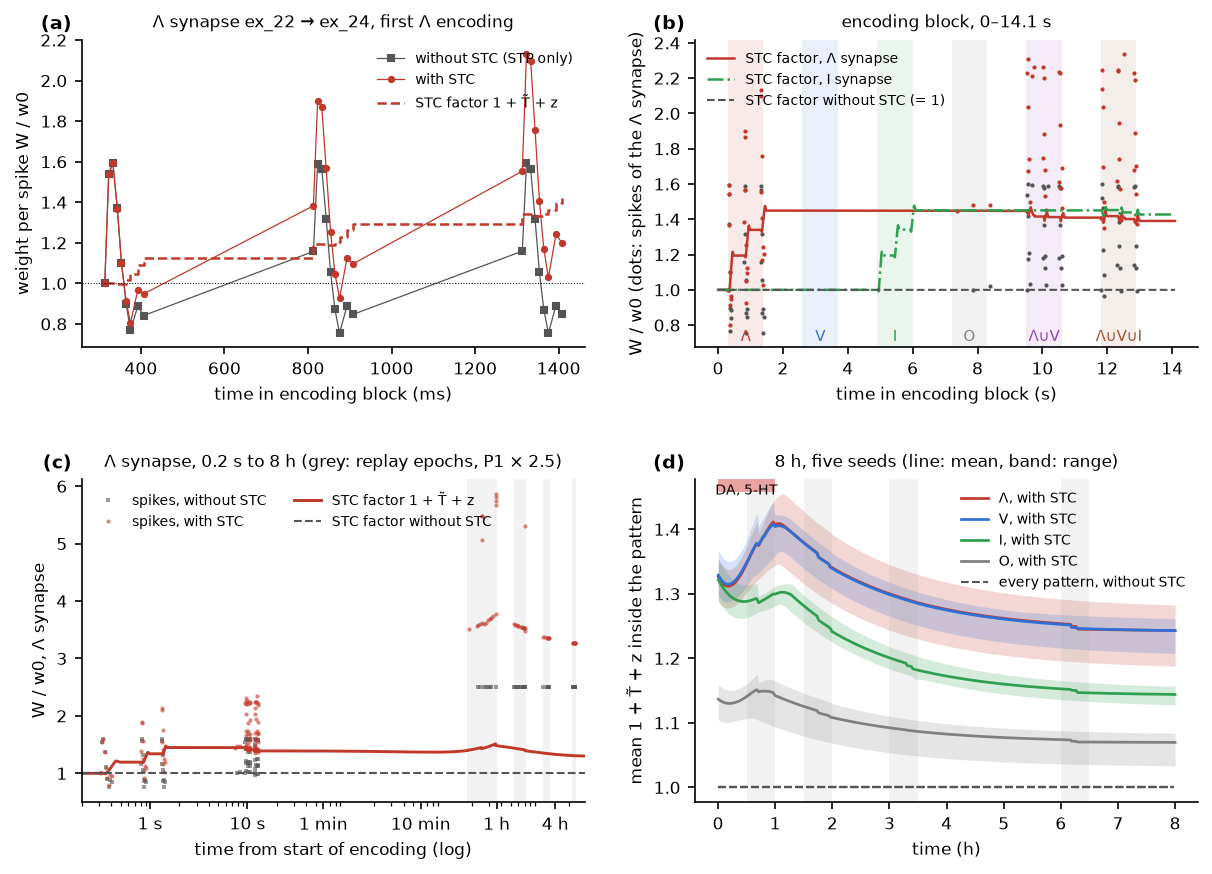
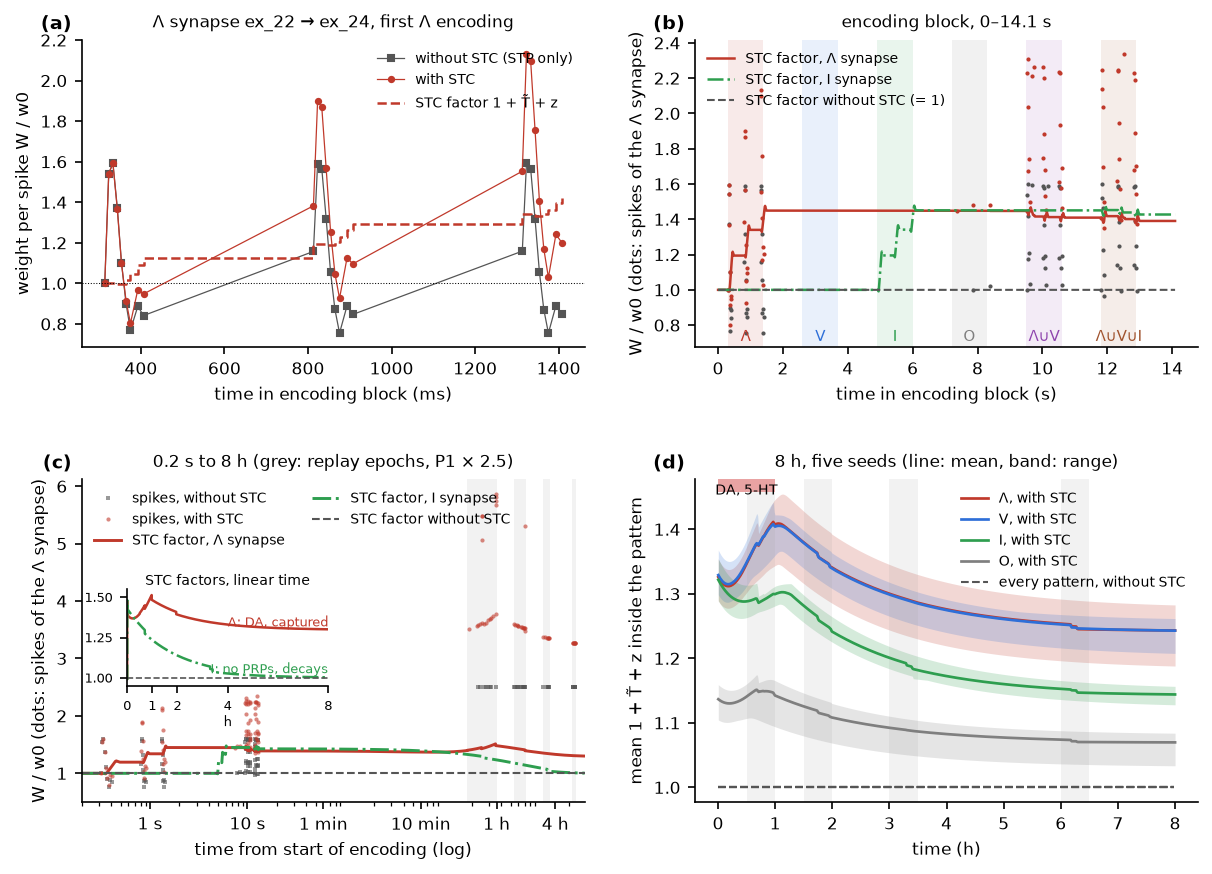
Figure 10c: add the I synapse and an inset of both STC factors in hours
The I synapse is tagged as strongly as the Λ synapse at encoding
(1.43 against 1.39) but gets no PRPs, so its tag decays to 1.00 by
about 6 h while the Λ synapse is captured and keeps 1.30. The inset
shows this on a linear time axis, where the log axis compressed it.

diff --git a/stc_compare.py b/stc_compare.py
@@ -163,7 +163,21 @@ def figure_10(stc, nostc, summary):
         ax.plot(np.concatenate(ts), np.concatenate(ws), mk, color=col, ms=2, alpha=0.6, mew=0,
                 label=f"spikes, {lab}")
     tt, wt = probe_slow(stc, "Λ")
-    ax.plot(tt[tt > 0.05], wt[tt > 0.05], color=STC_COL, lw=1.4, label="STC factor 1 + T̃ + z")
+    ax.plot(tt[tt > 0.05], wt[tt > 0.05], color=STC_COL, lw=1.4, label="STC factor, Λ synapse")
+    ti, wi = probe_slow(stc, "I")
+    ax.plot(ti[ti > 0.05], wi[ti > 0.05], color=PCOL["I"], lw=1.4, ls="-.", label="STC factor, I synapse")
+    ins = ax.inset_axes([0.09, 0.36, 0.40, 0.30])
+    ins.plot(tt / 3600, wt, color=STC_COL, lw=1.2)
+    ins.plot(ti / 3600, wi, color=PCOL["I"], lw=1.2, ls="-.")
+    ins.axhline(1, color=STP_COL, lw=0.8, ls="--")
+    ins.set_xlim(0, 8)
+    ins.set_ylim(0.95, 1.55)
+    ins.set_xticks([0, 1, 2, 4, 8])
+    ins.tick_params(labelsize=6)
+    ins.set_xlabel("h", fontsize=6, labelpad=1)
+    ins.set_title("STC factors, linear time", fontsize=6.5, pad=2)
+    ins.text(8, 1.30, "Λ: DA, captured", color=STC_COL, fontsize=6, ha="right", va="bottom")
+    ins.text(8, 1.01, "I: no PRPs, decays", color=PCOL["I"], fontsize=6, ha="right", va="bottom")
     ax.axhline(1, color=STP_COL, lw=1.0, ls="--", label="STC factor without STC")
     for e in EPOCHS_H:
         ax.axvspan(e * 3600, e * 3600 + 1800, color="#999", alpha=0.12, lw=0)
@@ -171,8 +185,8 @@ def figure_10(stc, nostc, summary):
     ax.set_xlim(0.2, 8 * 3600)
     ax.set_xticks([1, 10, 60, 600, 3600, 4 * 3600], ["1 s", "10 s", "1 min", "10 min", "1 h", "4 h"])
     ax.set_xlabel("time from start of encoding (log)")
-    ax.set_ylabel("W / w0, Λ synapse")
-    ax.set_title("Λ synapse, 0.2 s to 8 h (grey: replay epochs, P1 × 2.5)", fontsize=8)
+    ax.set_ylabel("W / w0 (dots: spikes of the Λ synapse)")
+    ax.set_title("0.2 s to 8 h (grey: replay epochs, P1 × 2.5)", fontsize=8)
     ax.legend(frameon=False, fontsize=6.5, loc="upper left", ncol=2)
 
     # (d) 8 h, pattern means, all five seeds

diff --git a/docs/COMPARISON_2026-11-20.md b/docs/COMPARISON_2026-11-20.md
@@ -100,7 +100,9 @@ same `advance_slow` as the run.
   - Lines: STC factors of the Λ and I probes, and the flat factor without STC.
 - **(c) One log time axis, 0.2 s to 8 h.**
   - Dots: every spike of the Λ synapse, in encoding and in replay. Replay spikes include the replay-state scale of 2.5.
-  - Red line: the STC factor of the Λ synapse.
+  - Red line: the STC factor of the Λ synapse. Green dash-dot: the STC factor of the I synapse ex_23 → ex_33.
+  - Inset: the same two STC factors on a linear axis in hours. Both start near 1.4. The Λ synapse is captured under DA
+    and keeps 1.30 at 8 h. The I synapse gets no PRPs, so its tag decays to 1.00 by about 6 h.
   - Grey bands: the four replay epochs.
 - **(d) Pattern means over 8 h.** Mean 1 + T̃ + z of the synapses inside Λ, V, I and O, over 5 seeds (line: mean,
   band: range across seeds). The dashed lines are the five runs without STC.
